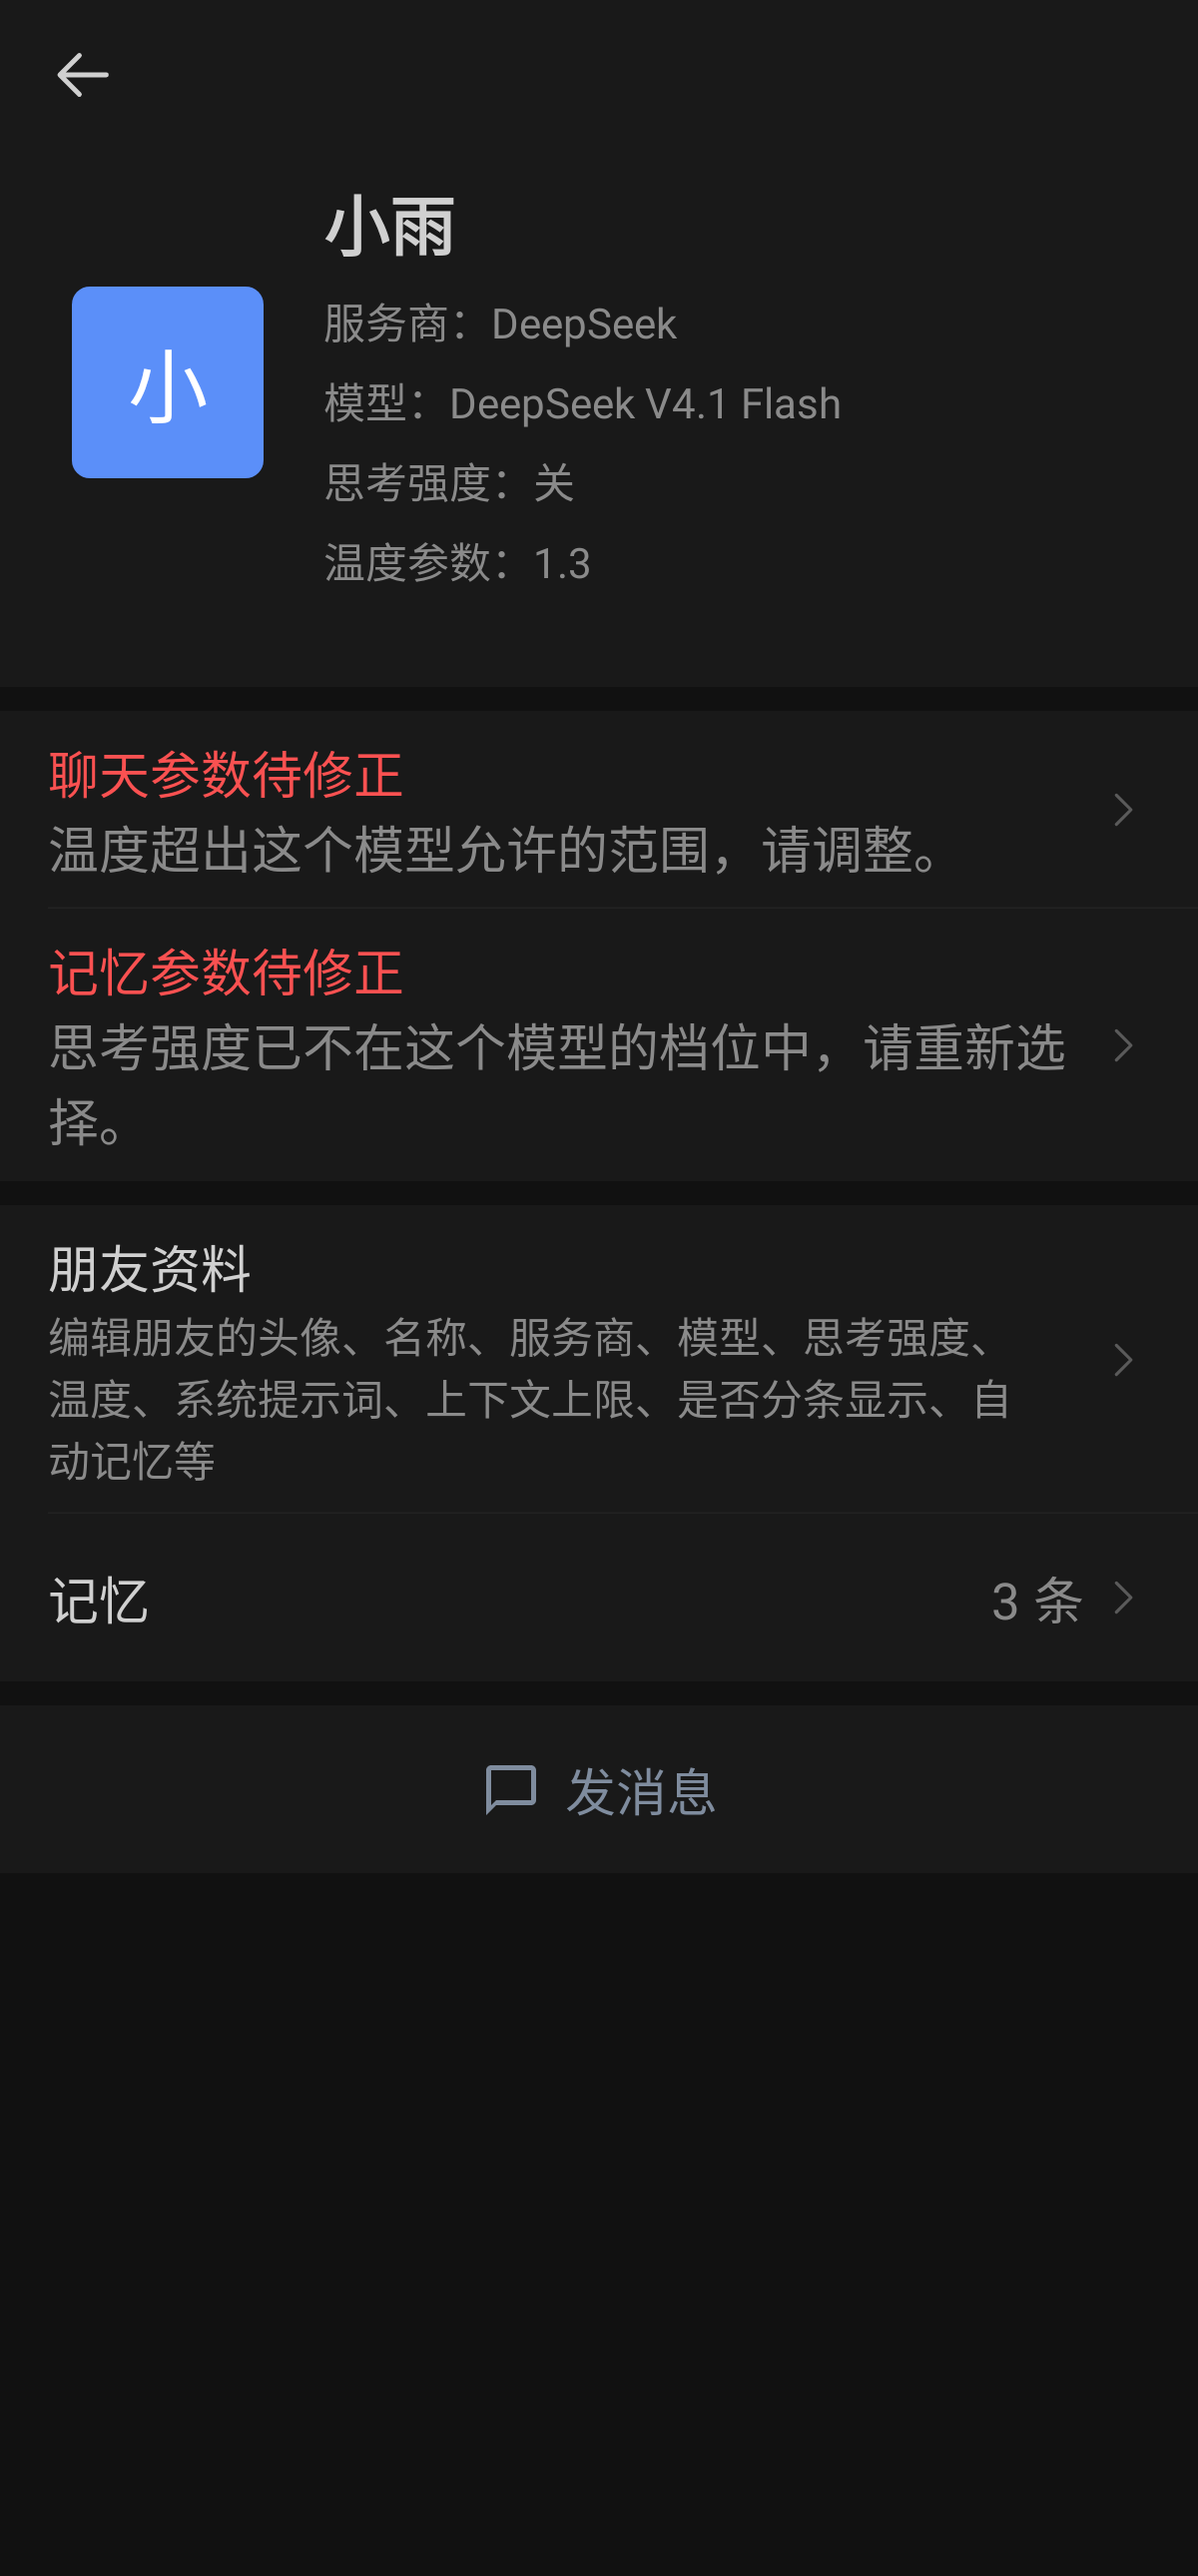
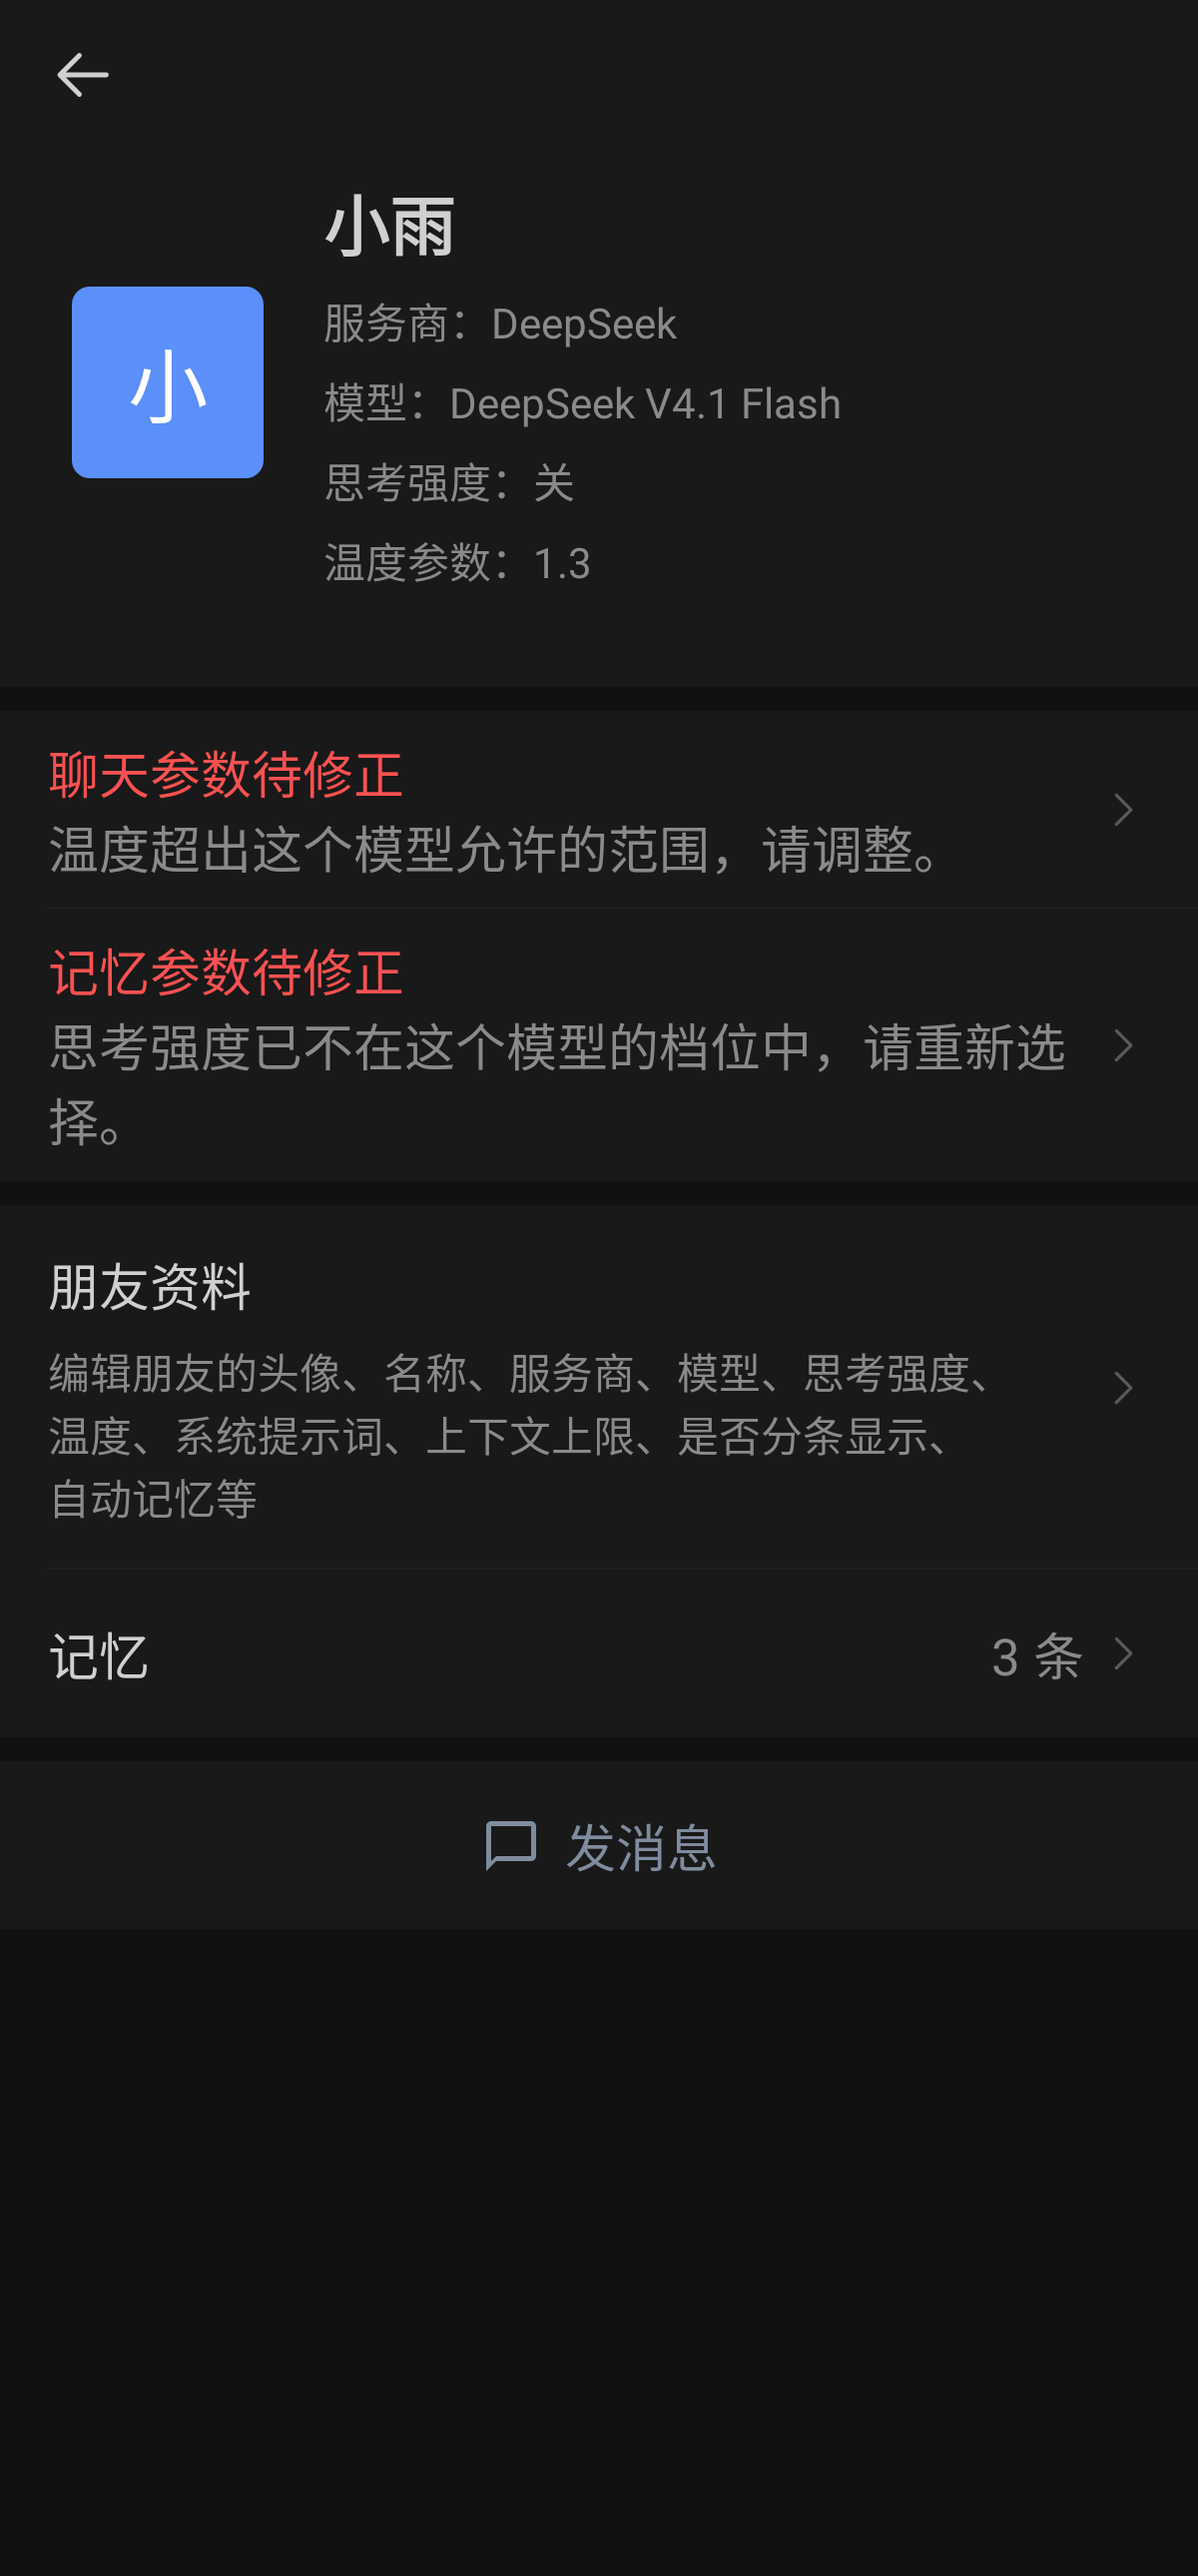
fix: 联系人详情「朋友资料」一行加大留白，小字只在“、”后换行
标题和小字之间空开，小字行距放宽，箭头和文字多留空；项目内部用 WORD JOINER 连住，
不再出现“思考强/度”这种断行，读屏仍读原文。行样式抽成 DetailEntryRow 供编辑页复用。

diff --git a/app/src/main/java/isomeria/aichat/feature/contactedit/ContactRows.kt b/app/src/main/java/isomeria/aichat/feature/contactedit/ContactRows.kt
@@ -1,0 +1,74 @@
+package isomeria.aichat.feature.contactedit
+
+import androidx.compose.foundation.background
+import androidx.compose.foundation.clickable
+import androidx.compose.foundation.layout.Column
+import androidx.compose.foundation.layout.Row
+import androidx.compose.foundation.layout.Spacer
+import androidx.compose.foundation.layout.fillMaxWidth
+import androidx.compose.foundation.layout.height
+import androidx.compose.foundation.layout.heightIn
+import androidx.compose.foundation.layout.padding
+import androidx.compose.foundation.layout.size
+import androidx.compose.material3.Icon
+import androidx.compose.material3.Text
+import androidx.compose.runtime.Composable
+import androidx.compose.ui.Alignment
+import androidx.compose.ui.Modifier
+import androidx.compose.ui.draw.drawBehind
+import androidx.compose.ui.geometry.Offset
+import androidx.compose.ui.semantics.Role
+import androidx.compose.ui.semantics.clearAndSetSemantics
+import androidx.compose.ui.semantics.text
+import androidx.compose.ui.text.AnnotatedString
+import androidx.compose.ui.text.style.TextOverflow
+import androidx.compose.ui.unit.dp
+import isomeria.aichat.ui.components.WeIcons
+import isomeria.aichat.ui.theme.WeTheme
+
+/**
+ * 标题下面带小字说明、点击进入下一页的行（联系人详情的「朋友资料」、编辑联系人的「系统提示词」）。
+ * 比普通行上下多留一点，标题和小字之间空开，小字行距放宽。
+ * [shown] 是画出来的小字（可以带断行控制符）；读屏读 [detail]。
+ */
+@Composable
+internal fun DetailEntryRow(
+    title: String,
+    detail: String,
+    onClick: () -> Unit,
+    shown: String = detail,
+    detailMaxLines: Int = Int.MAX_VALUE,
+    showDivider: Boolean = false,
+) {
+    val colors = WeTheme.colors
+    val d = WeTheme.dimens
+    Row(
+        Modifier
+            .fillMaxWidth()
+            .background(colors.listBackground)
+            .clickable(role = Role.Button, onClick = onClick)
+            .heightIn(min = d.listRowHeight)
+            .drawBehind {
+                if (showDivider) {
+                    val y = size.height - d.dividerThickness.toPx() / 2
+                    drawLine(colors.divider, Offset(d.horizontalPadding.toPx(), y), Offset(size.width, y), d.dividerThickness.toPx())
+                }
+            }
+            .padding(start = d.horizontalPadding, end = d.horizontalPadding, top = 14.dp, bottom = 14.dp),
+        verticalAlignment = Alignment.CenterVertically,
+    ) {
+        Column(Modifier.weight(1f)) {
+            Text(title, style = WeTheme.typography.listTitle, color = colors.textPrimary)
+            Spacer(Modifier.height(6.dp))
+            Text(
+                shown,
+                style = WeTheme.typography.thinking,
+                color = colors.textTertiary,
+                maxLines = detailMaxLines,
+                overflow = TextOverflow.Ellipsis,
+                modifier = Modifier.clearAndSetSemantics { text = AnnotatedString(detail) },
+            )
+        }
+        Icon(WeIcons.ChevronRight, null, tint = colors.arrow, modifier = Modifier.padding(start = 16.dp).size(18.dp))
+    }
+}

diff --git a/app/src/test/java/isomeria/aichat/feature/contactedit/ContactEditFieldsGuardTest.kt b/app/src/test/java/isomeria/aichat/feature/contactedit/ContactEditFieldsGuardTest.kt
@@ -33,7 +33,7 @@ class ContactEditFieldsGuardTest {
         "contact_delete_confirm", "contact_discard", "contact_discard_title", "contact_edit_title", "contact_edit_title_new",
         "contact_model_empty", "contact_model_image", "contact_model_pending", "contact_model_pending_required",
         "contact_model_pick", "contact_model_pick_first", "contact_model_required", "contact_model_thinking",
-        "contact_model_unavailable", "contact_name_hint", "contact_name_required", "contact_prompt_hint",
+        "contact_model_unavailable", "contact_name_hint", "contact_name_required", "contact_prompt_empty", "contact_prompt_hint",
         "contact_provider_pick", "contact_split_hint",
     )
 
@@ -59,5 +59,16 @@ class ContactEditFieldsGuardTest {
         val separator = app.getString(R.string.list_separator)
         val text = app.getString(R.string.contact_profile_hint, ContactEditField.entries.joinToString(separator) { app.getString(it.hint) })
         assertEquals("编辑朋友的头像、名称、服务商、模型、思考强度、温度、系统提示词、上下文上限、是否分条显示、自动记忆等", text)
+    }
+
+    /** 显示用的小字只在项目字间多了不可见的 WORD JOINER：去掉后和原文一样，“、”前后不加 */
+    @Test
+    fun keepTogetherOnlyJoinsInsideItems() {
+        assertEquals("思\u2060考\u2060强\u2060度", "思考强度".keepTogether())
+        assertEquals("头", "头".keepTogether())
+        val separator = app.getString(R.string.list_separator)
+        val shown = app.getString(R.string.contact_profile_hint, ContactEditField.entries.joinToString(separator) { app.getString(it.hint).keepTogether() })
+        assertEquals("编辑朋友的头像、名称、服务商、模型、思考强度、温度、系统提示词、上下文上限、是否分条显示、自动记忆等", shown.replace("\u2060", ""))
+        assertTrue(shown.split(separator).all { !it.startsWith("\u2060") && !it.endsWith("\u2060") })
     }
 }

diff --git a/app/src/main/java/isomeria/aichat/feature/contactedit/ContactDetailScreen.kt b/app/src/main/java/isomeria/aichat/feature/contactedit/ContactDetailScreen.kt
@@ -228,13 +228,7 @@ fun ContactDetailContent(
             ConfigActionRow(stringResource(R.string.contact_memory_issue), stringResource(configurationIssueText(issue, memory = true)), titleColor = colors.dangerText, onClick = onOpenMemory)
         }
         GroupSpacer()
-        ConfigActionRow(
-            title = stringResource(R.string.contact_profile),
-            value = "",
-            detail = contactProfileHint(),
-            showDivider = true,
-            onClick = onEdit,
-        )
+        ProfileRow(onClick = onEdit)
         WeListRow(
             title = stringResource(R.string.memory_title),
             value = if (state.memoryCount > 0) stringResource(R.string.memory_count, state.memoryCount) else null,
@@ -254,6 +248,16 @@ internal fun temperatureLabel(value: RequestTemperature): String = when (value) 
     RequestTemperature.NotSent -> stringResource(R.string.rule_no_send)
     is RequestTemperature.Blocked -> temperatureText(value.saved)
 }
+
+/** 「朋友资料」：每个项目不在中间断行（不会出现“思考强/度”），只在“、”后面换行 */
+@Composable
+private fun ProfileRow(onClick: () -> Unit) = DetailEntryRow(
+    title = stringResource(R.string.contact_profile),
+    detail = contactProfileHint(),
+    shown = contactProfileHint(keepItemsTogether = true),
+    showDivider = true,
+    onClick = onClick,
+)
 
 @Composable
 private fun ActionRow(icon: ImageVector, text: String, onClick: () -> Unit) {

diff --git a/app/src/main/java/isomeria/aichat/feature/contactedit/ContactEditFields.kt b/app/src/main/java/isomeria/aichat/feature/contactedit/ContactEditFields.kt
@@ -24,10 +24,19 @@ enum class ContactEditField(@StringRes val label: Int, @StringRes val hint: Int 
     AUTO_MEMORY(R.string.contact_auto_memory),
 }
 
-/** 「朋友资料」下的小字：编辑朋友的头像、名称……等 */
+/**
+ * 「朋友资料」下的小字：编辑朋友的头像、名称……等。
+ * [keepItemsTogether] 为 true 时在每个项目的字之间插入不可见的 WORD JOINER，换行只落在项目之间，只用于显示。
+ */
 @Composable
-fun contactProfileHint(): String {
+fun contactProfileHint(keepItemsTogether: Boolean = false): String {
     val separator = stringResource(R.string.list_separator)
     val items = ContactEditField.entries.map { stringResource(it.hint) }
+        .map { if (keepItemsTogether) it.keepTogether() else it }
     return stringResource(R.string.contact_profile_hint, items.joinToString(separator))
 }
+
+private const val WORD_JOINER = '\u2060'
+
+/** 字与字之间都不许断行 */
+internal fun String.keepTogether(): String = toList().joinToString(WORD_JOINER.toString())
